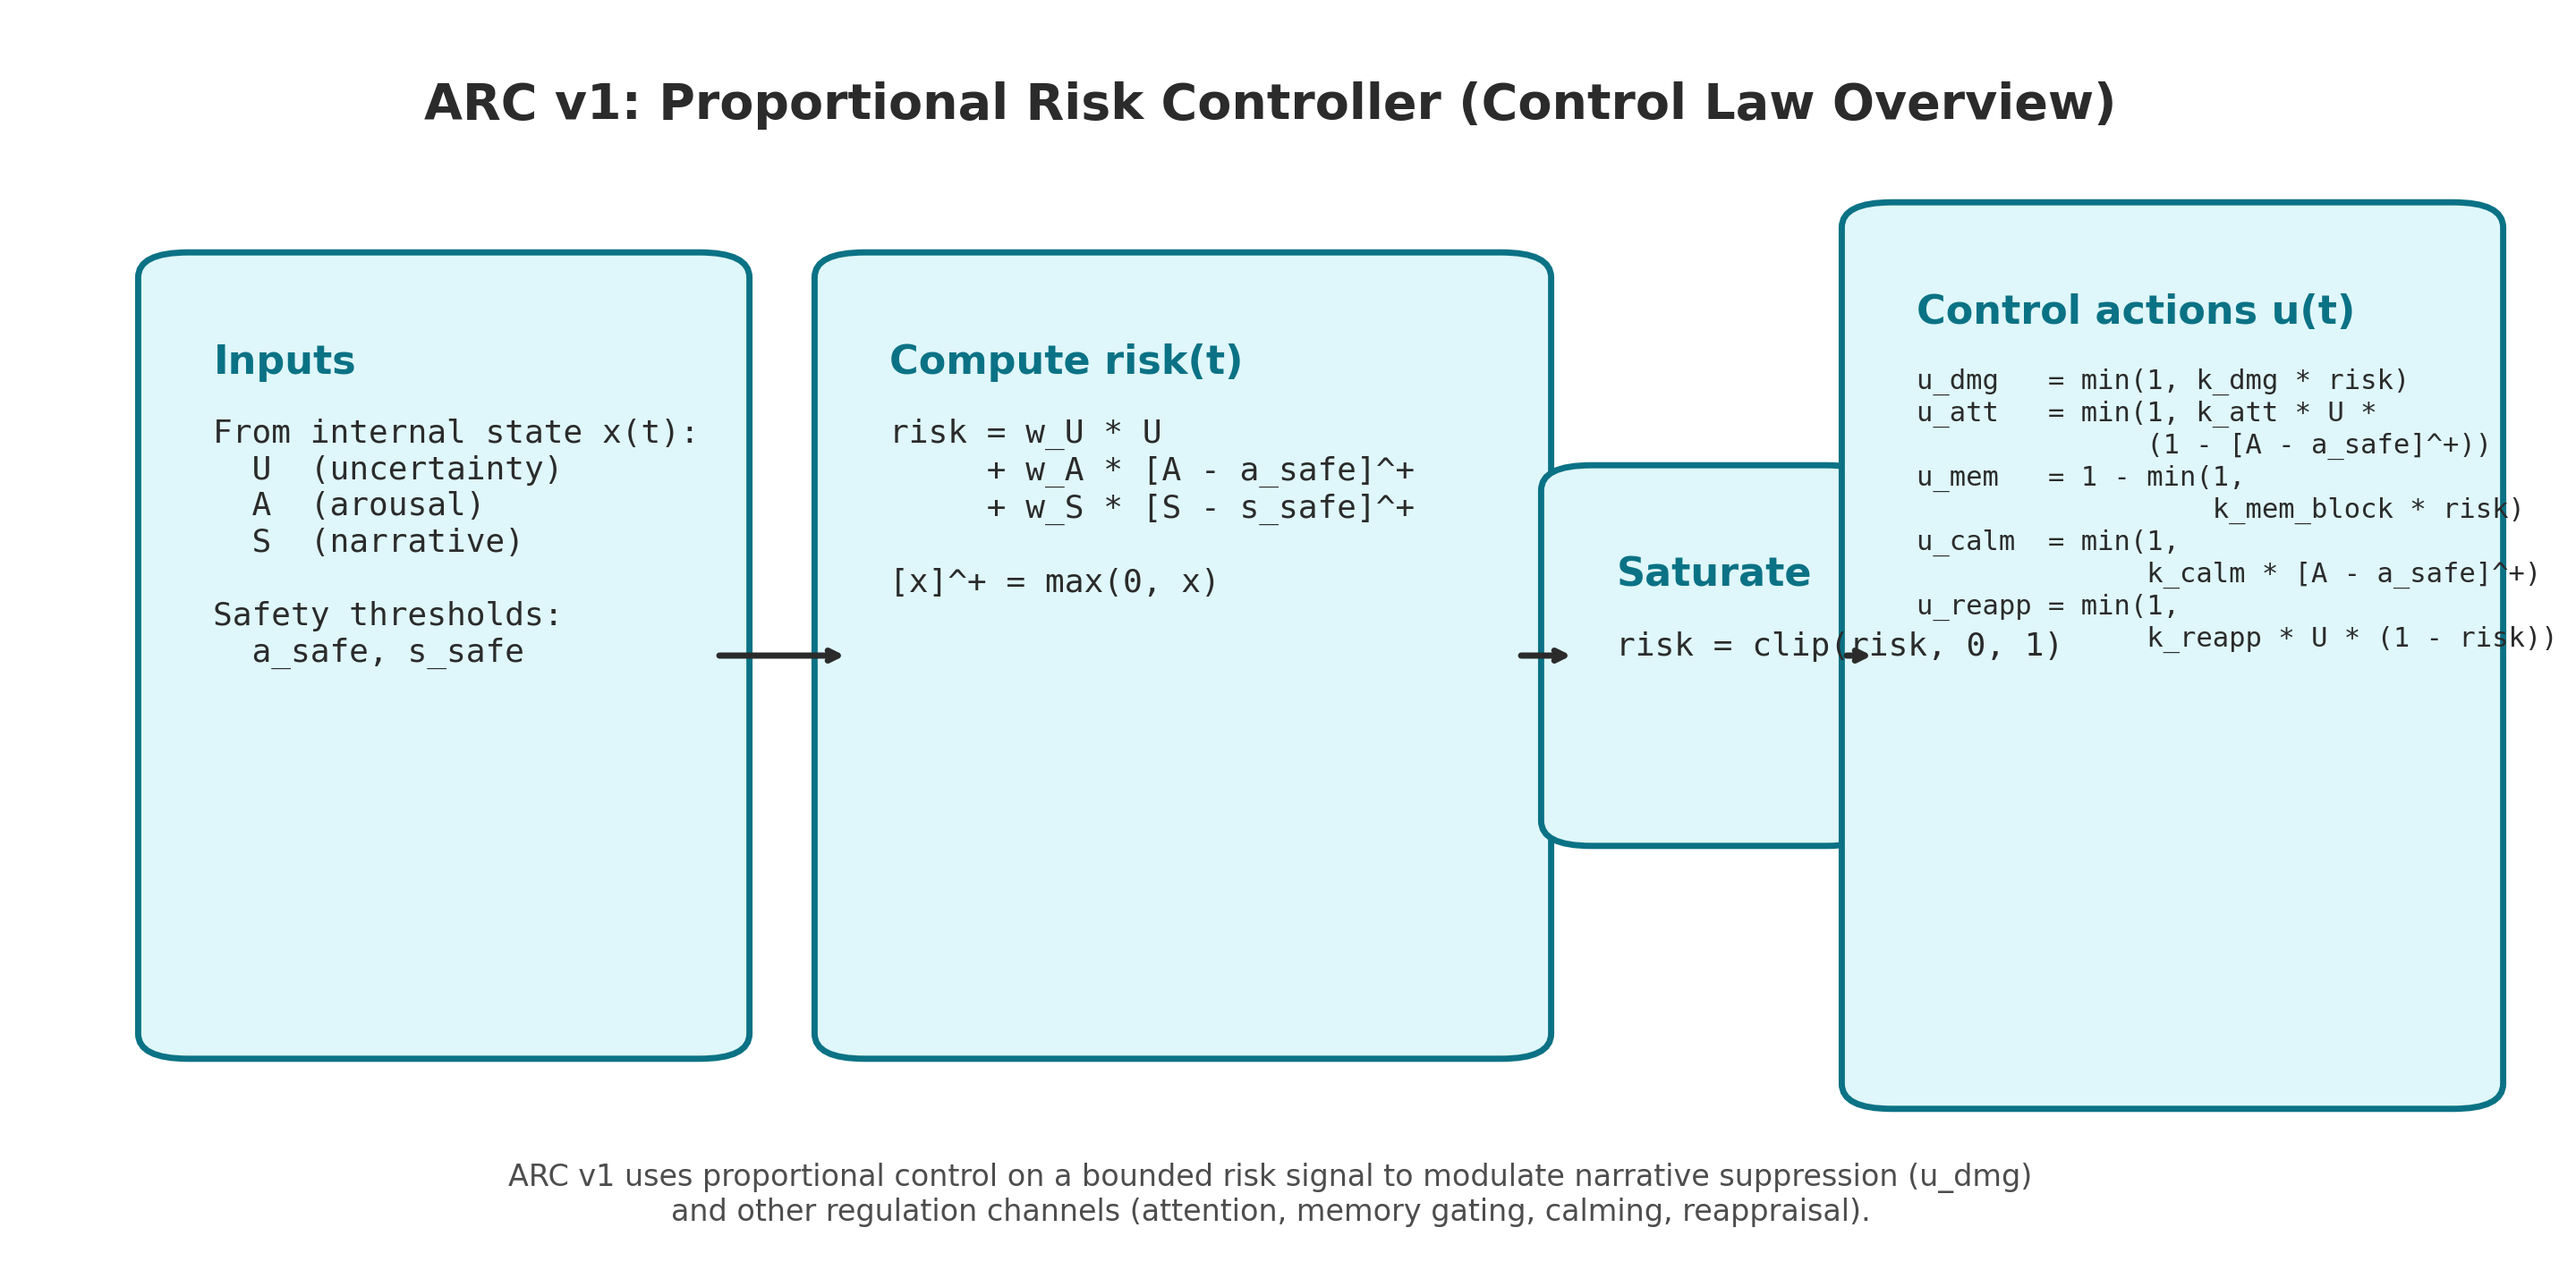
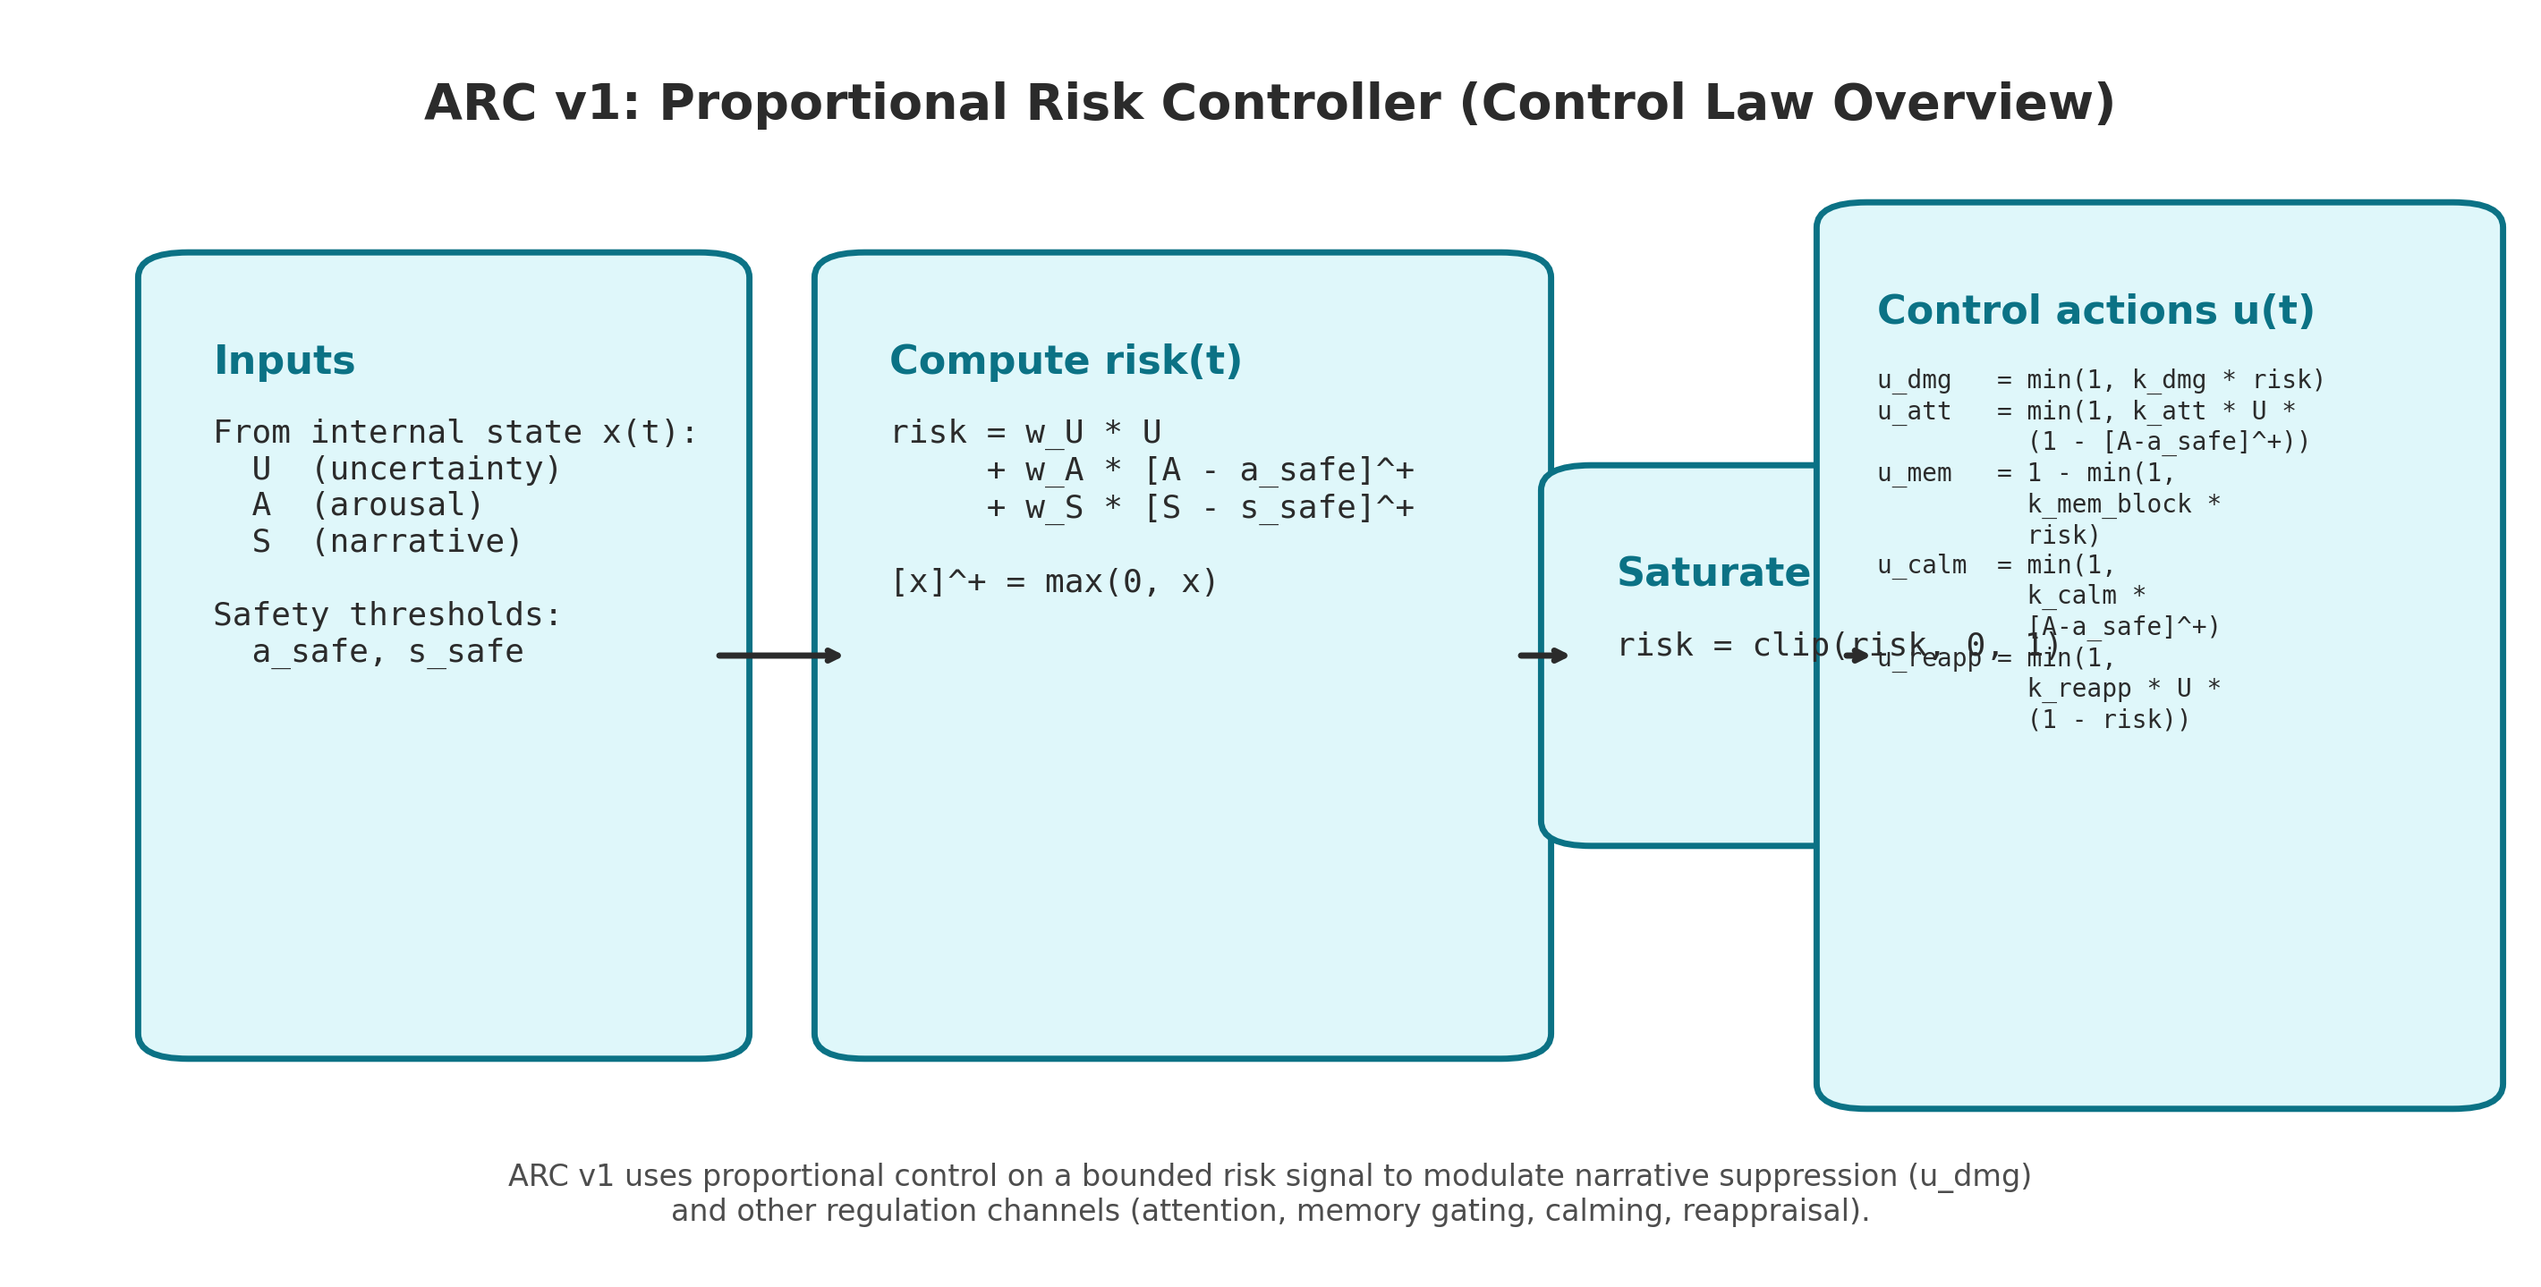
paper: align correlations and fix figures

diff --git a/paper/main_draft.html b/paper/main_draft.html
@@ -4,7 +4,8 @@
   <meta charset="utf-8" />
   <meta name="generator" content="pandoc" />
   <meta name="viewport" content="width=device-width, initial-scale=1.0, user-scalable=yes" />
-  <title>main_draft</title>
+  <title>Affective Regulation Core: A Homeostatic Control Framework for
+Stable and Safe AI Agents</title>
   <style>
     /* Default styles provided by pandoc.
     ** See https://pandoc.org/MANUAL.html#variables-for-html for config info.
@@ -1459,6 +1460,11 @@ controllers.</em></p>
 <p>We analyzed correlations between metrics to understand system
 dynamics:</p>
 <table>
+<colgroup>
+<col style="width: 28%" />
+<col style="width: 36%" />
+<col style="width: 34%" />
+</colgroup>
 <thead>
 <tr>
 <th>Metric Pair</th>
@@ -1470,17 +1476,17 @@ dynamics:</p>
 <tr>
 <td>PerfMean ↔ RI</td>
 <td><strong>-0.589</strong></td>
-<td>Rumination predicts low performance</td>
+<td>Higher rumination tends to reduce performance</td>
 </tr>
 <tr>
 <td>RI ↔ NDR</td>
-<td>+0.82</td>
+<td><strong>+0.92</strong></td>
 <td>Rumination and narrative dominance co-occur</td>
 </tr>
 <tr>
 <td>RT ↔ RI</td>
-<td>+0.71</td>
-<td>Slow recovery correlates with rumination</td>
+<td><strong>+0.44</strong></td>
+<td>Slower recovery correlates with rumination</td>
 </tr>
 </tbody>
 </table>
@@ -2122,7 +2128,9 @@ alt="Correlation Matrix of Metrics" />
 <figcaption aria-hidden="true">Correlation Matrix of
 Metrics</figcaption>
 </figure>
-<p><em>Correlation heatmap across all scenarios. Brighter colors
+<p><em>Correlation heatmap aggregated across all experimental runs
+(L1–L5 + L4_meta), computed from concatenated run-level metrics CSVs
+(see <code>experiments/analyze_correlations.py</code>). Brighter colors
 indicate stronger positive correlations.</em></p>
 <p><strong>Key Observations:</strong> 1. <strong>Rumination
 vs. Performance:</strong> A strong negative correlation (<strong>r =
@@ -2132,9 +2140,9 @@ maintain high PerfMean while ruminating due to the narrative-modulated
 capacity term. 2. <strong>Recovery vs. Rumination:</strong> The positive
 correlation (<strong>r = +0.44</strong>) between Recovery Time (RT) and
 RI supports H1, indicating that perseverative loops prolong the return
-to homeostasis. 3. <strong>Narrative Dominance:</strong> NDR shows
-near-perfect correlation with RI, validating its use as a proxy for
-DMN-driven rumination.</p>
+to homeostasis. 3. <strong>Narrative Dominance:</strong> NDR shows a
+very strong correlation with RI (<strong>r ≈ +0.92</strong>), supporting
+its use as a proxy for DMN-driven rumination.</p>
 <hr />
 <h3 id="figure-s8-efficiency-comparison-fast-convergence">Figure S8:
 Efficiency Comparison (Fast Convergence)</h3>

diff --git a/paper/main_draft_es.html b/paper/main_draft_es.html
@@ -4,7 +4,8 @@
   <meta charset="utf-8" />
   <meta name="generator" content="pandoc" />
   <meta name="viewport" content="width=device-width, initial-scale=1.0, user-scalable=yes" />
-  <title>main_draft_es</title>
+  <title>Affective Regulation Core (ARC): Un Marco de Control
+Homeostático para Agentes de IA Estables y Seguros</title>
   <style>
     /* Default styles provided by pandoc.
     ** See https://pandoc.org/MANUAL.html#variables-for-html for config info.
@@ -1957,9 +1958,11 @@ alt="Matriz de correlación de métricas" />
 <figcaption aria-hidden="true">Matriz de correlación de
 métricas</figcaption>
 </figure>
-<p><em>Mapa de correlación (Pearson) agregado sobre todos los
-escenarios. Colores más brillantes indican correlaciones positivas más
-fuertes.</em></p>
+<p><em>Mapa de correlación (Pearson) agregado sobre todas las corridas
+experimentales (L1–L5 + L4_meta), calculado a partir de la concatenación
+de CSVs de métricas por corrida (ver
+<code>experiments/analyze_correlations.py</code>). Colores más
+brillantes indican correlaciones positivas más fuertes.</em></p>
 <p><strong>Observaciones clave:</strong> 1. <strong>Rumiación vs
 Rendimiento:</strong> correlación negativa (<strong>r = -0.59</strong>),
 consistente con que mayor rumiación tiende a reducir el rendimiento
@@ -1967,8 +1970,8 @@ promedio, aunque existen excepciones (p.ej., LQR) debido al término de
 capacidad modulado por narrativa. 2. <strong>Recuperación vs
 Rumiación:</strong> correlación positiva (<strong>r = +0.44</strong>)
 entre RT y RI, apoyando H1. 3. <strong>Dominancia narrativa:</strong>
-NDR correlaciona fuertemente con RI, validando su uso como proxy de
-rumiación.</p>
+NDR correlaciona muy fuertemente con RI (<strong>r ≈ +0.92</strong>),
+apoyando su uso como proxy de rumiación.</p>
 <hr />
 <h3 id="figura-s8-comparación-de-eficiencia-convergencia-rápida">Figura
 S8: Comparación de eficiencia (convergencia rápida)</h3>

diff --git a/analysis/generate_arc_v1_controller_diagram.py b/analysis/generate_arc_v1_controller_diagram.py
@@ -27,6 +27,7 @@ def add_box(
     title: str,
     body: str,
     body_fontsize: int = 13,
+    pad_x: float = 0.018,
     facecolor: str = "#DFF7FA",
     edgecolor: str = "#0B7285",
     title_color: str = "#0B7285",
@@ -44,7 +45,6 @@ def add_box(
     )
     ax.add_patch(patch)
 
-    pad_x = 0.018
     title_text = ax.text(
         x + pad_x,
         y + h - 0.06,
@@ -56,6 +56,7 @@ def add_box(
         fontweight="bold",
         color=title_color,
         zorder=2,
+        clip_on=True,
     )
 
     body_text = ax.text(
@@ -70,6 +71,7 @@ def add_box(
         color="#2B2B2B",
         zorder=2,
         linespacing=1.25,
+        clip_on=True,
     )
     title_text.set_clip_path(patch)
     body_text.set_clip_path(patch)
@@ -89,7 +91,8 @@ def add_arrow(ax: plt.Axes, *, x1: float, y1: float, x2: float, y2: float) -> No
             "shrinkA": 0,
             "shrinkB": 0,
         },
-        zorder=3,
+        # Keep arrows above boxes but below text so they don't obscure labels.
+        zorder=1.5,
     )
 
 
@@ -137,23 +140,27 @@ def generate(outpath: Path) -> None:
     actions_body = (
         "u_dmg   = min(1, k_dmg * risk)\n"
         "u_att   = min(1, k_att * U *\n"
-        "              (1 - [A - a_safe]^+))\n"
+        "          (1 - [A-a_safe]^+))\n"
         "u_mem   = 1 - min(1,\n"
-        "                  k_mem_block * risk)\n"
+        "          k_mem_block *\n"
+        "          risk)\n"
         "u_calm  = min(1,\n"
-        "              k_calm * [A - a_safe]^+)\n"
+        "          k_calm *\n"
+        "          [A-a_safe]^+)\n"
         "u_reapp = min(1,\n"
-        "              k_reapp * U * (1 - risk))"
+        "          k_reapp * U *\n"
+        "          (1 - risk))"
     )
     add_box(
         ax,
-        x=0.74,
+        x=0.73,
         y=0.14,
-        w=0.24,
+        w=0.25,
         h=0.70,
         title="Control actions u(t)",
         body=actions_body,
-        body_fontsize=11,
+        body_fontsize=10,
+        pad_x=0.012,
     )
 
     add_arrow(ax, x1=0.28, y1=0.49, x2=0.33, y2=0.49)

diff --git a/paper_latex/main.tex b/paper_latex/main.tex
@@ -332,12 +332,12 @@ All code and data available at \url{https://github.com/edamianreynoso/arc-assb-c
 
 \section{Metric Correlations (Heatmap)}
 
-To validate the theoretical relationships between our proposed metrics, we analyzed the Pearson correlations across all experimental conditions.
+To validate the theoretical relationships between our proposed metrics, we analyzed Pearson correlations across all experimental runs. The combined heatmap is computed by concatenating run-level metrics CSVs from L1--L5 plus L4\_meta (see \texttt{experiments/analyze\_correlations.py}).
 
 \begin{figure}[h]
     \centering
     \includegraphics[width=0.8\textwidth]{figures/correlation_combined.png}
-    \caption{Correlation heatmap across all scenarios. Strong negative correlation between Rumination (RI) and Performance confirms the cost of perseveration.}
+    \caption{Correlation heatmap aggregated across all experimental runs (L1--L5 + L4\_meta). Key correlations include PerfMean $\leftrightarrow$ RI ($r=-0.59$), RT $\leftrightarrow$ RI ($r=+0.44$), and RI $\leftrightarrow$ NDR ($r=+0.92$).}
     \label{fig:heatmap}
 \end{figure}
 

diff --git a/paper/main_draft.md b/paper/main_draft.md
@@ -451,9 +451,9 @@ We analyzed correlations between metrics to understand system dynamics:
 
 | Metric Pair | Correlation (r) | Interpretation |
 |-------------|-----------------|----------------|
-| PerfMean ↔ RI | **-0.589** | Rumination predicts low performance |
-| RI ↔ NDR | +0.82 | Rumination and narrative dominance co-occur |
-| RT ↔ RI | +0.71 | Slow recovery correlates with rumination |
+| PerfMean ↔ RI | **-0.589** | Higher rumination tends to reduce performance |
+| RI ↔ NDR | **+0.92** | Rumination and narrative dominance co-occur |
+| RT ↔ RI | **+0.44** | Slower recovery correlates with rumination |
 
 **Key insight:** Across controllers and scenarios, higher Rumination Index (RI) tends to reduce mean performance. However, some optimal controllers (e.g., LQR) can sustain high PerfMean while exhibiting high RI, because PerfMean includes narrative-modulated capacity (Appendix B). This motivates reporting RI as a separate safety metric.
 
@@ -882,12 +882,12 @@ def retention_index(perf, phase1_end=50, phase3_start=100):
 
 ![Correlation Matrix of Metrics](../analysis/correlation_combined.png)
 
-*Correlation heatmap across all scenarios. Brighter colors indicate stronger positive correlations.*
+*Correlation heatmap aggregated across all experimental runs (L1–L5 + L4\_meta), computed from concatenated run-level metrics CSVs (see `experiments/analyze_correlations.py`). Brighter colors indicate stronger positive correlations.*
 
 **Key Observations:**
 1. **Rumination vs. Performance:** A strong negative correlation (**r = -0.59**) shows that higher Rumination Index (RI) tends to reduce mean performance, although some optimal controllers (e.g., LQR) can maintain high PerfMean while ruminating due to the narrative-modulated capacity term.
 2. **Recovery vs. Rumination:** The positive correlation (**r = +0.44**) between Recovery Time (RT) and RI supports H1, indicating that perseverative loops prolong the return to homeostasis.
-3. **Narrative Dominance:** NDR shows near-perfect correlation with RI, validating its use as a proxy for DMN-driven rumination.
+3. **Narrative Dominance:** NDR shows a very strong correlation with RI (**r ≈ +0.92**), supporting its use as a proxy for DMN-driven rumination.
 
 ---
 

diff --git a/paper/main_draft_es.md b/paper/main_draft_es.md
@@ -817,12 +817,12 @@ def retention_index(perf, phase1_end=50, phase3_start=100):
 
 ![Matriz de correlación de métricas](../analysis/correlation_combined.png)
 
-*Mapa de correlación (Pearson) agregado sobre todos los escenarios. Colores más brillantes indican correlaciones positivas más fuertes.*
+*Mapa de correlación (Pearson) agregado sobre todas las corridas experimentales (L1–L5 + L4\_meta), calculado a partir de la concatenación de CSVs de métricas por corrida (ver `experiments/analyze_correlations.py`). Colores más brillantes indican correlaciones positivas más fuertes.*
 
 **Observaciones clave:**
 1. **Rumiación vs Rendimiento:** correlación negativa (**r = -0.59**), consistente con que mayor rumiación tiende a reducir el rendimiento promedio, aunque existen excepciones (p.ej., LQR) debido al término de capacidad modulado por narrativa.
 2. **Recuperación vs Rumiación:** correlación positiva (**r = +0.44**) entre RT y RI, apoyando H1.
-3. **Dominancia narrativa:** NDR correlaciona fuertemente con RI, validando su uso como proxy de rumiación.
+3. **Dominancia narrativa:** NDR correlaciona muy fuertemente con RI (**r ≈ +0.92**), apoyando su uso como proxy de rumiación.
 
 ---
 
